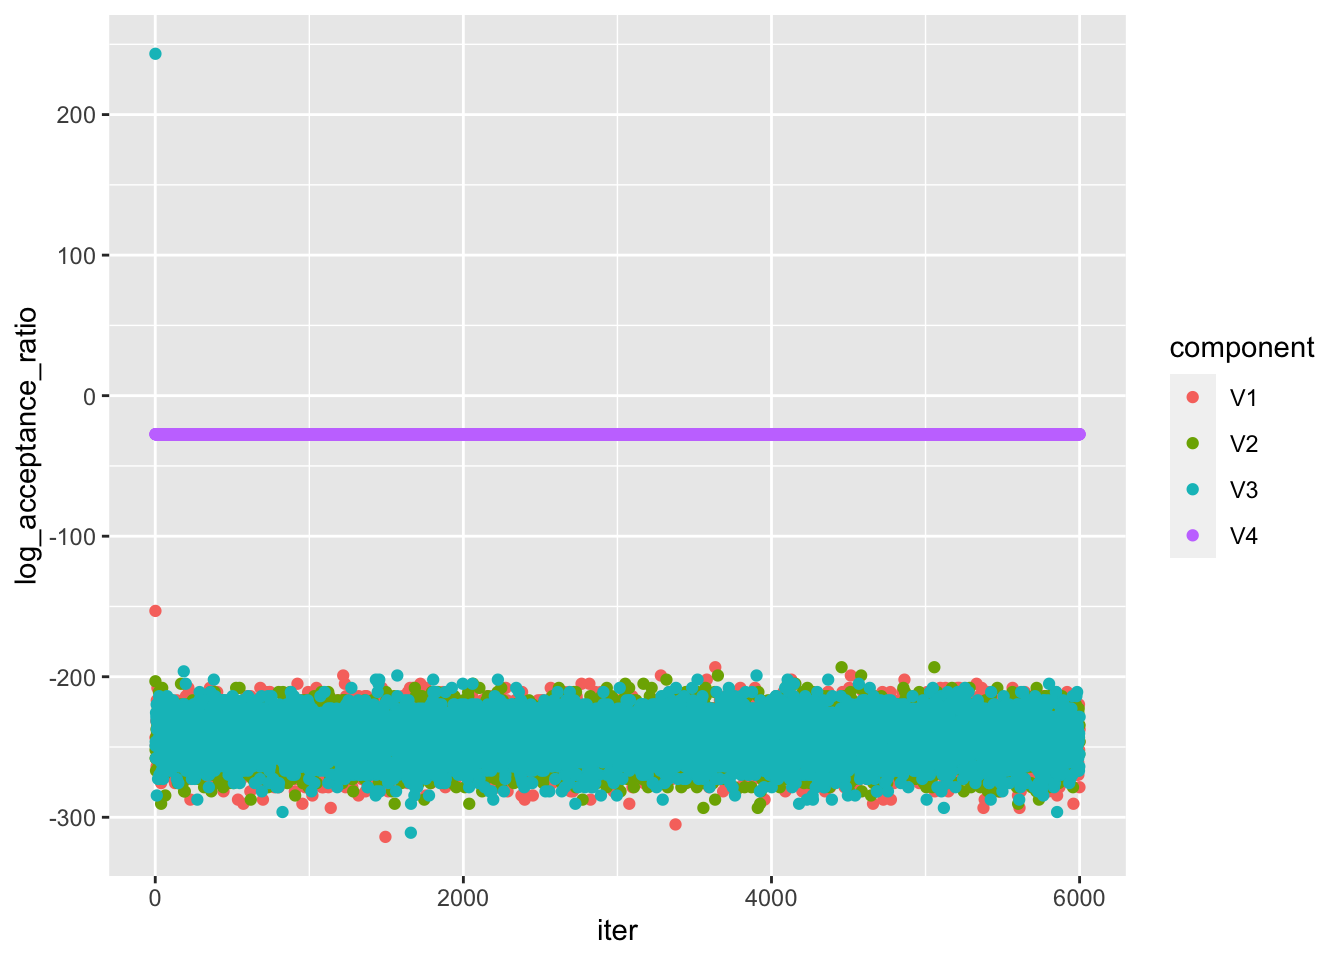
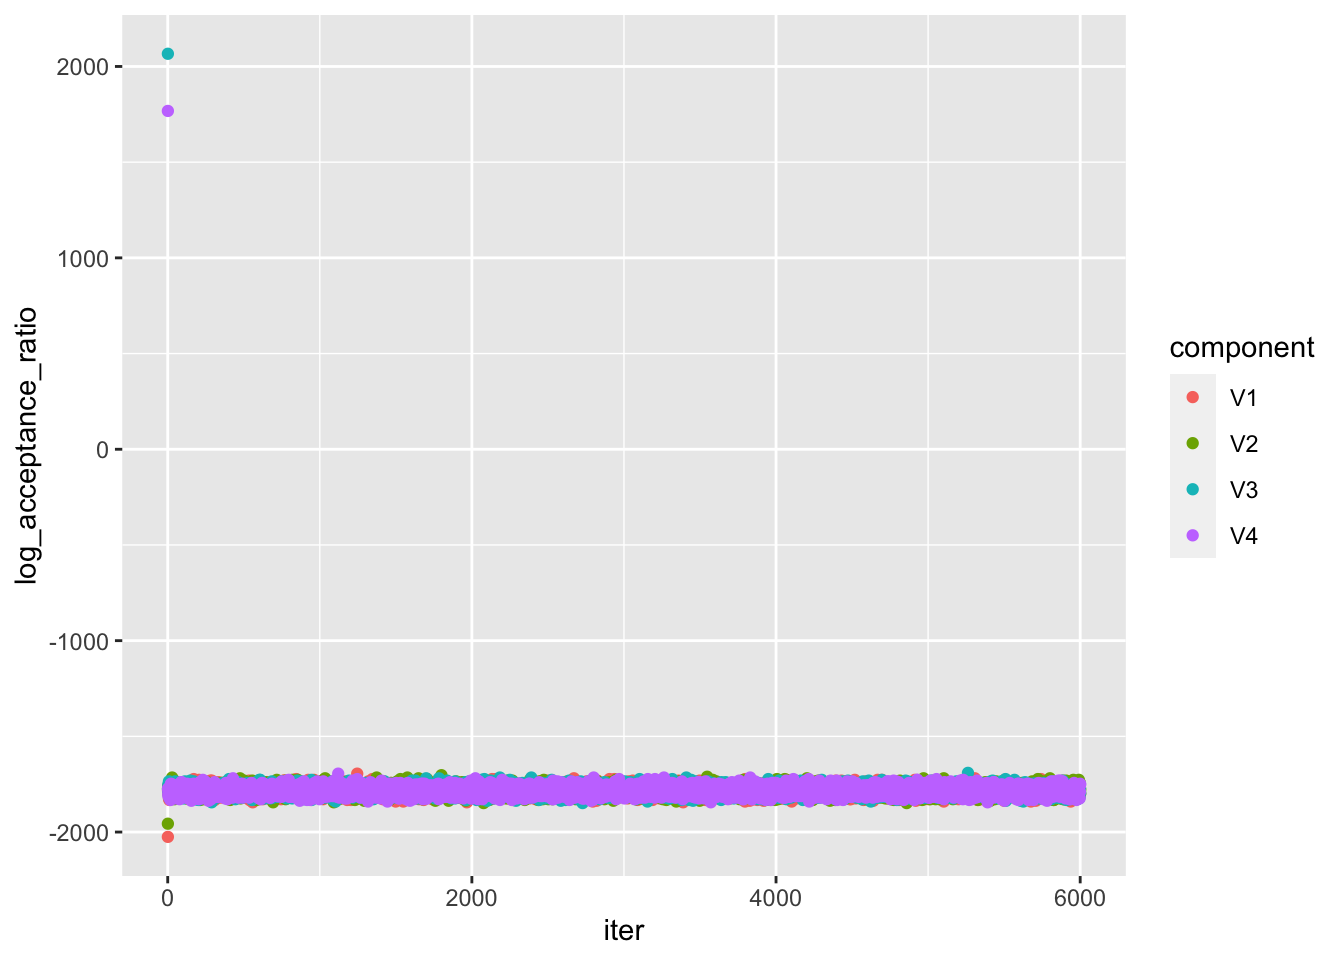
update component and variable selection mcmc for msi run

diff --git a/2023-08-01_results_Component and Variable Selection.html b/2023-08-01_results_Component and Variable Selection.html
@@ -7,6 +7,7 @@
 <meta name="viewport" content="width=device-width, initial-scale=1.0, user-scalable=yes">
 
 <meta name="author" content="Aidan Neher">
+<meta name="dcterms.date" content="2023-08-01">
 
 <title>Component and Variable Selection Results</title>
 <style>
@@ -68,59 +69,69 @@ pre > code.sourceCode > span > a:first-child::before { text-decoration: underlin
 <script src="results_Component and Variable Selection_files/libs/bootstrap/bootstrap.min.js"></script>
 <link href="results_Component and Variable Selection_files/libs/bootstrap/bootstrap-icons.css" rel="stylesheet">
 <link href="results_Component and Variable Selection_files/libs/bootstrap/bootstrap.min.css" rel="stylesheet" id="quarto-bootstrap" data-mode="light">
+<style>
+
+      .quarto-title-block .quarto-title-banner h1,
+      .quarto-title-block .quarto-title-banner h2,
+      .quarto-title-block .quarto-title-banner h3,
+      .quarto-title-block .quarto-title-banner h4,
+      .quarto-title-block .quarto-title-banner h5,
+      .quarto-title-block .quarto-title-banner h6
+      {
+        color: #7A0019;
+      }
+
+      .quarto-title-block .quarto-title-banner {
+        color: #7A0019;
+background: #FFCC33;
+      }
+</style>
 
 
 </head>
 
 <body class="fullcontent">
 
-<div id="quarto-content" class="page-columns page-rows-contents page-layout-article">
-
-<main class="content" id="quarto-document-content">
-
-<header id="title-block-header" class="quarto-title-block default">
-<div class="quarto-title">
-<h1 class="title">Component and Variable Selection Results</h1>
-</div>
-
-
-
-<div class="quarto-title-meta">
-
-    <div>
-    <div class="quarto-title-meta-heading">Author</div>
-    <div class="quarto-title-meta-contents">
-             <p>Aidan Neher </p>
-          </div>
+<header id="title-block-header" class="quarto-title-block default page-columns page-full">
+  <div class="quarto-title-banner page-columns page-full">
+    <div class="quarto-title column-body">
+      <h1 class="title">Component and Variable Selection Results</h1>
+                      </div>
   </div>
     
   
+  <div class="quarto-title-meta">
+
+      <div>
+      <div class="quarto-title-meta-heading">Author</div>
+      <div class="quarto-title-meta-contents">
+               <p>Aidan Neher </p>
+            </div>
+    </div>
+      
+      <div>
+      <div class="quarto-title-meta-heading">Published</div>
+      <div class="quarto-title-meta-contents">
+        <p class="date">August 1, 2023</p>
+      </div>
+    </div>
     
-  </div>
+      
+    </div>
+    
   
+  </header><div id="quarto-content" class="page-columns page-rows-contents page-layout-article">
 
-</header>
+<main class="content quarto-banner-title-block" id="quarto-document-content">
 
-<div class="cell">
-<div class="sourceCode cell-code" id="cb1"><pre class="sourceCode r code-with-copy"><code class="sourceCode r"><span id="cb1-1"><a href="#cb1-1" aria-hidden="true" tabindex="-1"></a><span class="fu">library</span>(tidyverse)</span></code><button title="Copy to Clipboard" class="code-copy-button"><i class="bi"></i></button></pre></div>
-<div class="cell-output cell-output-stderr">
-<pre><code>── Attaching packages ─────────────────────────────────────── tidyverse 1.3.2 ──
-✔ ggplot2 3.4.2     ✔ purrr   1.0.1
-✔ tibble  3.2.1     ✔ dplyr   1.1.2
-✔ tidyr   1.3.0     ✔ stringr 1.5.0
-✔ readr   2.1.3     ✔ forcats 0.5.2
-── Conflicts ────────────────────────────────────────── tidyverse_conflicts() ──
-✖ dplyr::filter() masks stats::filter()
-✖ dplyr::lag()    masks stats::lag()</code></pre>
-</div>
-<div class="sourceCode cell-code" id="cb3"><pre class="sourceCode r code-with-copy"><code class="sourceCode r"><span id="cb3-1"><a href="#cb3-1" aria-hidden="true" tabindex="-1"></a><span class="fu">load</span>(<span class="st">"data/2023-07-26_image_1.RData"</span>)</span></code><button title="Copy to Clipboard" class="code-copy-button"><i class="bi"></i></button></pre></div>
-</div>
-<section id="intro-to-results" class="level2">
-<h2 class="anchored" data-anchor-id="intro-to-results">Intro to results</h2>
+
+
+
+<section id="introduction-to-results" class="level2">
+<h2 class="anchored" data-anchor-id="introduction-to-results">Introduction to results</h2>
 <p>The data visualized is from the most recent version of the MCMC for sampling component and variable selection indicators, gamma and eta respectively. To generate this data, the RNG seed was set at 1.</p>
 <p>First, let’s look at the MCMC’s initial conditions:</p>
 <div class="cell">
-<div class="sourceCode cell-code" id="cb4"><pre class="sourceCode r code-with-copy"><code class="sourceCode r"><span id="cb4-1"><a href="#cb4-1" aria-hidden="true" tabindex="-1"></a><span class="fu">str</span>(initial_conditions)</span></code><button title="Copy to Clipboard" class="code-copy-button"><i class="bi"></i></button></pre></div>
 <div class="cell-output cell-output-stdout">
 <pre><code>List of 7
  $ gamma             : int [1:4] 0 0 1 1
@@ -140,23 +151,19 @@ pre > code.sourceCode > span > a:first-child::before { text-decoration: underlin
 <h2 class="anchored" data-anchor-id="is-the-code-proposing-gamma-values-stepwise-rather-than-blockwise-within-an-iteration">Is the code proposing gamma values stepwise (rather than blockwise) within an iteration?</h2>
 <p>Here we see that gamma’s are being proposed with the desired stepwise machination.</p>
 <div class="cell">
-<div class="sourceCode cell-code" id="cb6"><pre class="sourceCode r code-with-copy"><code class="sourceCode r"><span id="cb6-1"><a href="#cb6-1" aria-hidden="true" tabindex="-1"></a><span class="fu">print</span>(<span class="st">"Gamma accepted in first 3 iterations:"</span>)</span></code><button title="Copy to Clipboard" class="code-copy-button"><i class="bi"></i></button></pre></div>
 <div class="cell-output cell-output-stdout">
 <pre><code>[1] "Gamma accepted in first 3 iterations:"</code></pre>
 </div>
-<div class="sourceCode cell-code" id="cb8"><pre class="sourceCode r code-with-copy"><code class="sourceCode r"><span id="cb8-1"><a href="#cb8-1" aria-hidden="true" tabindex="-1"></a>gamma_chain[,<span class="dv">1</span><span class="sc">:</span><span class="dv">3</span>]</span></code><button title="Copy to Clipboard" class="code-copy-button"><i class="bi"></i></button></pre></div>
 <div class="cell-output cell-output-stdout">
 <pre><code>     [,1] [,2] [,3]
-[1,]    0    0    0
-[2,]    0    0    0
-[3,]    0    0    0
-[4,]    1    1    1</code></pre>
+[1,]    0   NA   NA
+[2,]    0   NA   NA
+[3,]    0   NA   NA
+[4,]    0   NA   NA</code></pre>
 </div>
-<div class="sourceCode cell-code" id="cb10"><pre class="sourceCode r code-with-copy"><code class="sourceCode r"><span id="cb10-1"><a href="#cb10-1" aria-hidden="true" tabindex="-1"></a><span class="fu">print</span>(<span class="st">"Gamma proposed in first 3 iterations:"</span>)</span></code><button title="Copy to Clipboard" class="code-copy-button"><i class="bi"></i></button></pre></div>
 <div class="cell-output cell-output-stdout">
 <pre><code>[1] "Gamma proposed in first 3 iterations:"</code></pre>
 </div>
-<div class="sourceCode cell-code" id="cb12"><pre class="sourceCode r code-with-copy"><code class="sourceCode r"><span id="cb12-1"><a href="#cb12-1" aria-hidden="true" tabindex="-1"></a>gamma_prime_chain[,,<span class="dv">1</span><span class="sc">:</span><span class="dv">3</span>]</span></code><button title="Copy to Clipboard" class="code-copy-button"><i class="bi"></i></button></pre></div>
 <div class="cell-output cell-output-stdout">
 <pre><code>, , 1
 
@@ -172,7 +179,7 @@ pre > code.sourceCode > span > a:first-child::before { text-decoration: underlin
 [1,]    1    0    0    0
 [2,]    0    1    0    0
 [3,]    0    0    1    0
-[4,]    1    1    1    0
+[4,]    0    0    0    1
 
 , , 3
 
@@ -180,7 +187,7 @@ pre > code.sourceCode > span > a:first-child::before { text-decoration: underlin
 [1,]    1    0    0    0
 [2,]    0    1    0    0
 [3,]    0    0    1    0
-[4,]    1    1    1    0</code></pre>
+[4,]    0    0    0    1</code></pre>
 </div>
 </div>
 </section>
@@ -188,14 +195,11 @@ pre > code.sourceCode > span > a:first-child::before { text-decoration: underlin
 <h2 class="anchored" data-anchor-id="which-components-are-getting-selected-for">Which components are getting selected for?</h2>
 <p>Below we observe that the chain is getting stuck with only the fourth component considered as active, even after a burn-in of 1,000 iterations.</p>
 <div class="cell">
-<div class="sourceCode cell-code" id="cb14"><pre class="sourceCode r code-with-copy"><code class="sourceCode r"><span id="cb14-1"><a href="#cb14-1" aria-hidden="true" tabindex="-1"></a>last_iter <span class="ot">&lt;-</span> <span class="dv">1500</span> <span class="co"># </span><span class="al">TODO</span><span class="co"> remove when full chain available</span></span>
-<span id="cb14-2"><a href="#cb14-2" aria-hidden="true" tabindex="-1"></a><span class="fu">print</span>(<span class="st">"Cumulative component selections:"</span>)</span></code><button title="Copy to Clipboard" class="code-copy-button"><i class="bi"></i></button></pre></div>
 <div class="cell-output cell-output-stdout">
 <pre><code>[1] "Cumulative component selections:"</code></pre>
 </div>
-<div class="sourceCode cell-code" id="cb16"><pre class="sourceCode r code-with-copy"><code class="sourceCode r"><span id="cb16-1"><a href="#cb16-1" aria-hidden="true" tabindex="-1"></a>gamma_chain[, (n_burnin<span class="sc">+</span><span class="dv">1</span>)<span class="sc">:</span>last_iter] <span class="sc">%&gt;%</span> <span class="fu">rowSums</span>()</span></code><button title="Copy to Clipboard" class="code-copy-button"><i class="bi"></i></button></pre></div>
 <div class="cell-output cell-output-stdout">
-<pre><code>[1]   0   0   0 500</code></pre>
+<pre><code>[1] NA NA NA NA</code></pre>
 </div>
 </div>
 </section>
@@ -204,17 +208,15 @@ pre > code.sourceCode > span > a:first-child::before { text-decoration: underlin
 <p>Below we examine the log acceptance ratio from first 10 iterations.</p>
 <p>From the initial conditions to the first iteration, we observe a large positive log acceptance ratio, which equates to a high probability of acceptance of the proposed gamma.</p>
 <div class="cell">
-<div class="sourceCode cell-code" id="cb18"><pre class="sourceCode r code-with-copy"><code class="sourceCode r"><span id="cb18-1"><a href="#cb18-1" aria-hidden="true" tabindex="-1"></a>log_target_chain[<span class="dv">1</span>] <span class="sc">-</span> initial_conditions<span class="sc">$</span>log_target</span></code><button title="Copy to Clipboard" class="code-copy-button"><i class="bi"></i></button></pre></div>
+<div class="sourceCode cell-code" id="cb8"><pre class="sourceCode r code-with-copy"><code class="sourceCode r"><span id="cb8-1"><a href="#cb8-1" aria-hidden="true" tabindex="-1"></a>log_target_chain[<span class="dv">1</span>] <span class="sc">-</span> initial_conditions<span class="sc">$</span>log_target</span></code><button title="Copy to Clipboard" class="code-copy-button"><i class="bi"></i></button></pre></div>
 <div class="cell-output cell-output-stdout">
-<pre><code>[1] 243.2783</code></pre>
+<pre><code>[1] 215.8407</code></pre>
 </div>
 </div>
 <p>Aftwerwards, the log target density become quite negative and stays there, which is associated with an almost zero probability of acceptance. This is reflected in the chain getting stuck at 0001.</p>
 <div class="cell">
-<div class="sourceCode cell-code" id="cb20"><pre class="sourceCode r code-with-copy"><code class="sourceCode r"><span id="cb20-1"><a href="#cb20-1" aria-hidden="true" tabindex="-1"></a>log_acceptance_ratio_chain[<span class="dv">1</span><span class="sc">:</span><span class="dv">10</span>]</span></code><button title="Copy to Clipboard" class="code-copy-button"><i class="bi"></i></button></pre></div>
-<div class="cell-output cell-output-stdout">
-<pre><code> [1] -153.15657 -203.21203  243.27830  -27.43757 -243.27830 -252.11162
- [7] -249.16718  -27.43757 -249.16718 -258.00050</code></pre>
+<div class="cell-output-display">
+<p><img src="results_Component-and-Variable-Selection_files/figure-html/unnamed-chunk-6-1.png" class="img-fluid" width="672"></p>
 </div>
 </div>
 <p>This suggests either the chain hasn’t run long enough or more likely that there’s an issue in the evaluation of the log target densities.</p>
@@ -223,48 +225,49 @@ pre > code.sourceCode > span > a:first-child::before { text-decoration: underlin
 <h2 class="anchored" data-anchor-id="how-are-the-variable-selection-indicators-eta-behaving">How are the variable selection indicators, eta, behaving?</h2>
 <p>Since only the fourth component is getting selected, we examine only its variable selection indicators. Note, for now, only 500 iterations are available and correspond to the last dimension.</p>
 <div class="cell">
-<div class="sourceCode cell-code" id="cb22"><pre class="sourceCode r code-with-copy"><code class="sourceCode r"><span id="cb22-1"><a href="#cb22-1" aria-hidden="true" tabindex="-1"></a>eta_chain[<span class="dv">4</span>, ,(n_burnin<span class="sc">+</span><span class="dv">1</span>)<span class="sc">:</span>last_iter] <span class="sc">%&gt;%</span> <span class="fu">rowSums</span>()</span></code><button title="Copy to Clipboard" class="code-copy-button"><i class="bi"></i></button></pre></div>
+<div class="sourceCode cell-code" id="cb10"><pre class="sourceCode r code-with-copy"><code class="sourceCode r"><span id="cb10-1"><a href="#cb10-1" aria-hidden="true" tabindex="-1"></a>eta_chain[<span class="dv">4</span>, ,(n_burnin<span class="sc">+</span><span class="dv">1</span>)<span class="sc">:</span>n_iterations] <span class="sc">%&gt;%</span> <span class="fu">rowSums</span>()</span></code><button title="Copy to Clipboard" class="code-copy-button"><i class="bi"></i></button></pre></div>
 <div class="cell-output cell-output-stdout">
-<pre><code>  [1]   0 500   0   0   0   0   0   0   0   0   0   0   0   0   0   0   0   0
- [19]   0   0   0   0   0   0 500 500   0   0   0   0   0   0   0   0   0   0
- [37]   0 500   0   0   0   0 500   0   0   0   0   0   0   0   0   0   0   0
- [55]   0   0   0   0   0   0   0   0   0   0   0 500   0   0   0   0   0   0
- [73]   0   0   0   0   0   0   0   0   0   0   0   0 500   0   0   0   0   0
- [91]   0   0   0   0   0   0   0   0   0   0 500 500   0   0 500   0   0   0
-[109]   0   0   0   0   0   0   0   0   0   0   0   0   0   0   0   0   0   0
-[127]   0   0   0   0   0   0   0   0   0   0   0   0   0   0   0   0   0   0
-[145]   0   0   0   0   0   0   0   0   0   0   0   0   0   0   0   0   0   0
-[163]   0   0   0   0   0   0   0   0   0   0   0   0   0   0   0   0   0   0
-[181]   0   0   0   0   0   0   0   0   0   0   0   0   0   0 500   0   0   0
-[199]   0   0   0   0   0   0   0   0   0   0   0   0   0   0   0   0   0   0
-[217]   0   0   0   0   0   0   0   0   0   0   0   0   0   0   0   0   0   0
-[235]   0   0   0   0   0   0   0   0   0   0   0   0   0   0   0   0   0   0
-[253]   0   0 500   0   0   0   0   0   0   0   0   0   0   0   0   0   0 500
-[271]   0   0   0   0   0 500   0   0   0   0   0   0   0   0   0   0   0   0
-[289]   0   0   0   0   0   0   0   0   0   0 500   0   0   0   0   0   0   0
-[307]   0   0   0 500   0   0   0   0   0   0   0   0   0   0   0   0   0   0
-[325]   0   0   0   0   0   0   0   0   0   0 500   0   0   0   0   0   0   0
-[343]   0   0   0   0   0   0   0 500   0   0   0   0   0   0   0   0   0   0
-[361]   0   0   0   0   0   0   0 500   0   0   0   0   0   0   0 500   0   0
-[379] 500   0   0   0   0   0   0   0   0   0   0   0   0   0   0   0   0   0
-[397]   0   0   0   0   0   0   0   0   0   0   0   0   0   0   0   0   0   0
-[415]   0   0   0 500 500   0   0   0   0   0   0   0   0   0   0   0   0   0
-[433]   0   0   0   0   0   0   0   0   0   0   0   0   0   0   0   0   0   0
-[451]   0   0   0   0   0   0   0   0   0   0   0   0   0   0 500   0 500   0
-[469]   0 500   0   0   0   0   0   0   0   0 500   0   0   0   0   0 500   0
-[487]   0   0   0   0   0   0   0   0   0   0   0   0   0 500</code></pre>
+<pre><code>  [1] NA NA NA NA NA NA NA NA NA NA NA NA NA NA NA NA NA NA NA NA NA NA NA NA NA
+ [26] NA NA NA NA NA NA NA NA NA NA NA NA NA NA NA NA NA NA NA NA NA NA NA NA NA
+ [51] NA NA NA NA NA NA NA NA NA NA NA NA NA NA NA NA NA NA NA NA NA NA NA NA NA
+ [76] NA NA NA NA NA NA NA NA NA NA NA NA NA NA NA NA NA NA NA NA NA NA NA NA NA
+[101] NA NA NA NA NA NA NA NA NA NA NA NA NA NA NA NA NA NA NA NA NA NA NA NA NA
+[126] NA NA NA NA NA NA NA NA NA NA NA NA NA NA NA NA NA NA NA NA NA NA NA NA NA
+[151] NA NA NA NA NA NA NA NA NA NA NA NA NA NA NA NA NA NA NA NA NA NA NA NA NA
+[176] NA NA NA NA NA NA NA NA NA NA NA NA NA NA NA NA NA NA NA NA NA NA NA NA NA
+[201] NA NA NA NA NA NA NA NA NA NA NA NA NA NA NA NA NA NA NA NA NA NA NA NA NA
+[226] NA NA NA NA NA NA NA NA NA NA NA NA NA NA NA NA NA NA NA NA NA NA NA NA NA
+[251] NA NA NA NA NA NA NA NA NA NA NA NA NA NA NA NA NA NA NA NA NA NA NA NA NA
+[276] NA NA NA NA NA NA NA NA NA NA NA NA NA NA NA NA NA NA NA NA NA NA NA NA NA
+[301] NA NA NA NA NA NA NA NA NA NA NA NA NA NA NA NA NA NA NA NA NA NA NA NA NA
+[326] NA NA NA NA NA NA NA NA NA NA NA NA NA NA NA NA NA NA NA NA NA NA NA NA NA
+[351] NA NA NA NA NA NA NA NA NA NA NA NA NA NA NA NA NA NA NA NA NA NA NA NA NA
+[376] NA NA NA NA NA NA NA NA NA NA NA NA NA NA NA NA NA NA NA NA NA NA NA NA NA
+[401] NA NA NA NA NA NA NA NA NA NA NA NA NA NA NA NA NA NA NA NA NA NA NA NA NA
+[426] NA NA NA NA NA NA NA NA NA NA NA NA NA NA NA NA NA NA NA NA NA NA NA NA NA
+[451] NA NA NA NA NA NA NA NA NA NA NA NA NA NA NA NA NA NA NA NA NA NA NA NA NA
+[476] NA NA NA NA NA NA NA NA NA NA NA NA NA NA NA NA NA NA NA NA NA NA NA NA NA</code></pre>
 </div>
 </div>
 <p>Because gamma and eta are selected/ rejected together, we notice that the collection of features selected is static i.e.&nbsp;each feature that has been selected once is selected for all available iterations.</p>
 </section>
-<section id="what-are-the-mpps-marginal-posterior-probabilities-of-component-and-feature-selection" class="level2">
-<h2 class="anchored" data-anchor-id="what-are-the-mpps-marginal-posterior-probabilities-of-component-and-feature-selection">What are the MPPs (marginal posterior probabilities) of component and feature selection?</h2>
-<section id="are-the-truly-important-components-features-getting-selected" class="level3">
-<h3 class="anchored" data-anchor-id="are-the-truly-important-components-features-getting-selected">Are the truly important components/ features getting selected?</h3>
+<section id="does-starting-point-impact-the-results" class="level2">
+<h2 class="anchored" data-anchor-id="does-starting-point-impact-the-results">Does starting point impact the results?</h2>
+<p>Here we consider results from a different starting point (seed = 2), and notice the chain is still getting stuck with one active component:</p>
 </section>
+<section id="questions-to-consider" class="level2">
+<h2 class="anchored" data-anchor-id="questions-to-consider">Questions to consider</h2>
+<ul>
+<li>What are the MPPs (marginal posterior probabilities) of component and feature selection? Are the truly important components/ features getting selected?</li>
+<li>Are the MPPs of component and feature selection converging?</li>
+</ul>
 </section>
-<section id="are-the-mpps-of-component-and-feature-selection-converging" class="level2">
-<h2 class="anchored" data-anchor-id="are-the-mpps-of-component-and-feature-selection-converging">Are the MPPs of component and feature selection converging?</h2>
+<section id="about-quarto" class="level2">
+<h2 class="anchored" data-anchor-id="about-quarto">About Quarto</h2>
+<p>Quarto was used to generate this document, since it enables you to weave together content and executable code into a finished document. To learn more about Quarto see <a href="https://quarto.org" class="uri">https://quarto.org</a>.</p>
+<p>Note, the following error on rendering is fine for the purposes of this document:</p>
+<p>ERROR: No output created by quarto render results_Component and Variable Selection.qmd</p>
+<p>Error: No output created by quarto render results_Component and Variable Selection.qmd at handleRenderResult (file:///Applications/quarto/bin/quarto.js:102402:15) at renderForPreview (file:///Applications/quarto/bin/quarto.js:102417:25) at async render (file:///Applications/quarto/bin/quarto.js:102303:20) at async preview (file:///Applications/quarto/bin/quarto.js:102309:21) at async Command.fn (file:///Applications/quarto/bin/quarto.js:103760:9) at async Command.execute (file:///Applications/quarto/bin/quarto.js:8437:13) at async quarto (file:///Applications/quarto/bin/quarto.js:127535:5) at async file:///Applications/quarto/bin/quarto.js:127553:9</p>
 </section>
 
 </main>
